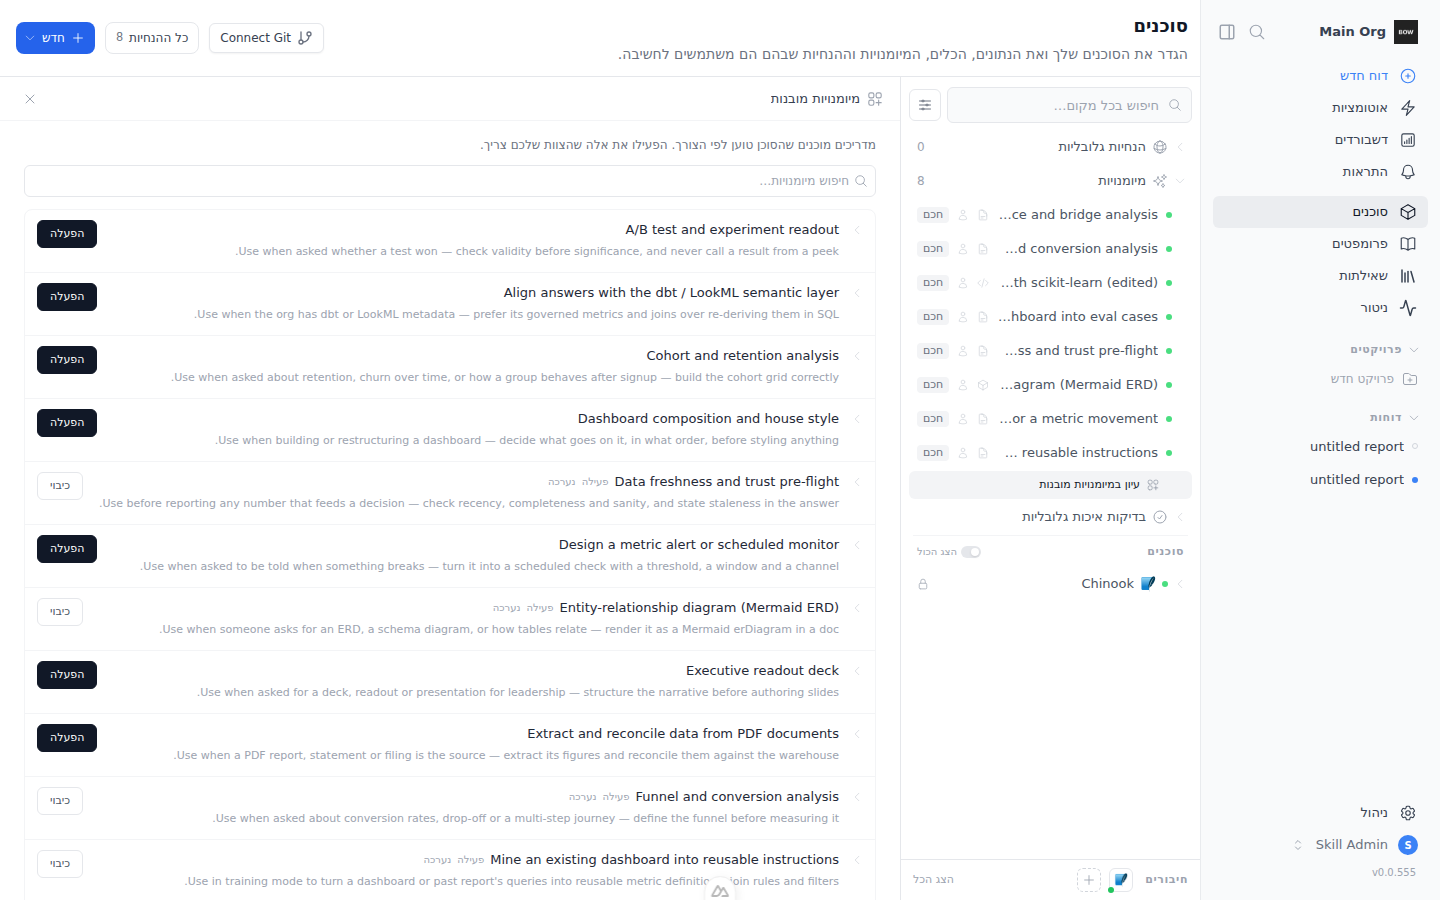
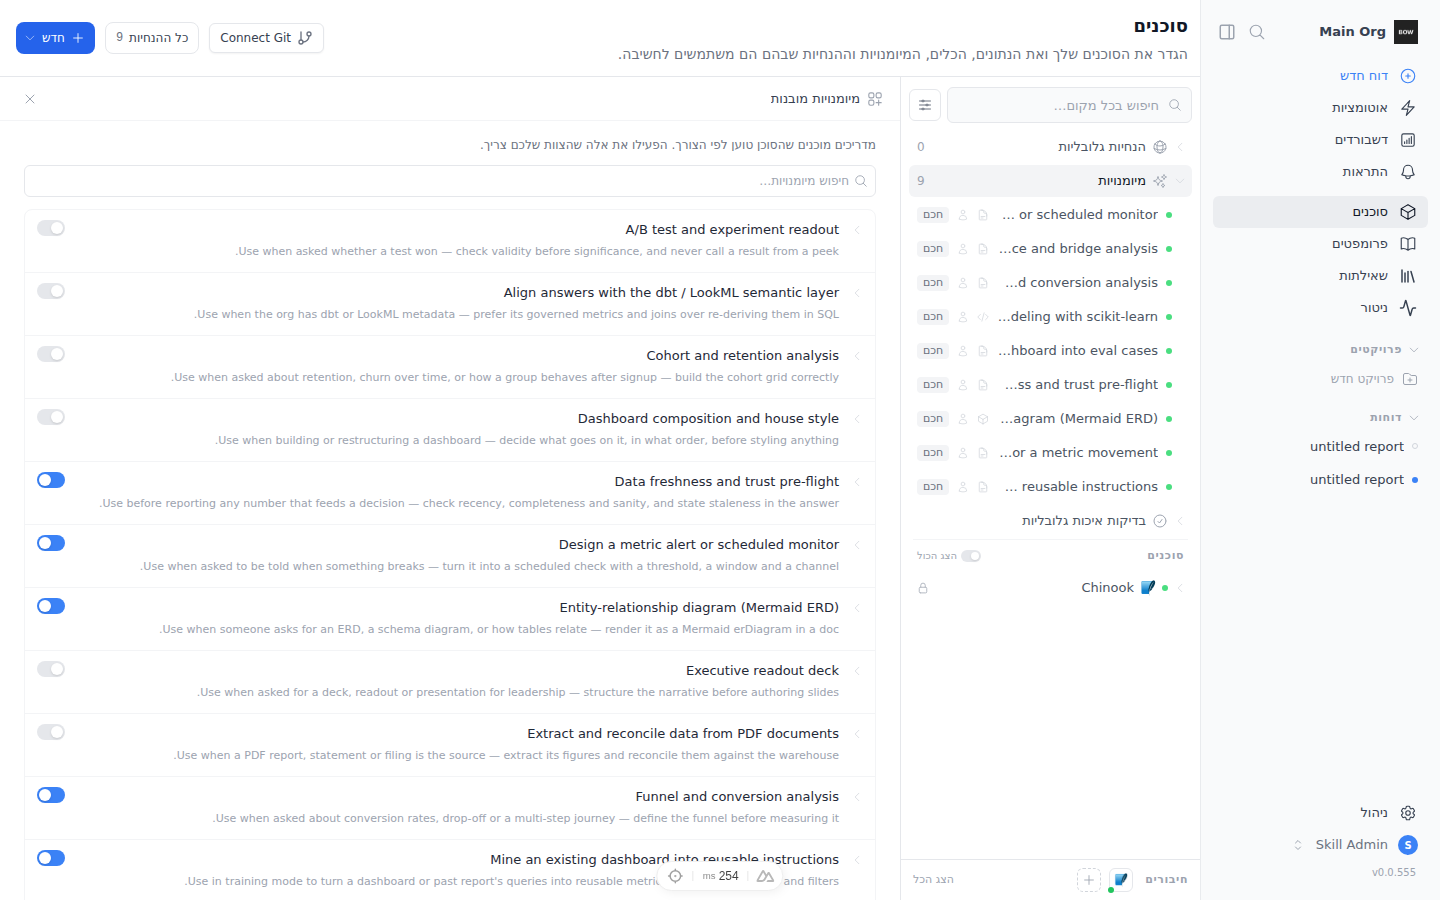
refactor(skills): one click from the Skills row, and a toggle per skill
Two things stood between an admin and enabling a skill: expanding the Skills
group to find a "Browse pre-built skills" sub-row, and reading an
Enable/Disable button to work out the current state.

Clicking the Skills row now opens the catalog directly — the same shape as
Tables and Tools (onPanelRowClick), where the row opens its panel and the
chevron alone expands the group. The sub-row is gone.

Each catalog row is a title, a description and a toggle. The toggle is bound to
the server's state rather than a local ref, so it moves when the install
actually lands and can never show enabled for a skill the agent does not have.
The "Enabled" text next to the title went with the button — the switch says it.

Also fixes a one-way door: an edited skill could only be put back to the shipped
text if a version bump happened to be pending, because the re-sync action was
gated on update_available. It now appears whenever the org's copy diverges —
labelled Update when a new version exists and Reset when it does not — so
"I edited this and want the original back" has an answer.

Verified on the live sandbox: one click on Skills opens 16 rows, the toggle
flips on and off with install/delete round-trips behind it, resetting seven
edited skills clears every Edited marker, members see all 16 with disabled
toggles and no reset action, and Hebrew RTL mirrors cleanly. 37 catalog tests
green (one new for the reset path); i18n locale sweep 30 passed.
[…]

diff --git a/frontend/components/instructions/SkillCatalogPanel.vue b/frontend/components/instructions/SkillCatalogPanel.vue
@@ -55,11 +55,6 @@
             <div class="flex items-center gap-1.5 flex-wrap">
               <span class="text-[13px] text-gray-800 dark:text-gray-200">{{ skill.title }}</span>
               <span
-                v-if="skill.installed"
-                data-testid="skill-enabled-badge"
-                class="text-[10px] text-gray-400 dark:text-gray-500"
-              >{{ $t('skillCatalog.enabled') }}</span>
-              <span
                 v-if="skill.update_available"
                 class="inline-flex items-center px-1.5 h-4 rounded bg-amber-100 dark:bg-amber-500/20 text-amber-700 dark:text-amber-300 text-[10px] font-medium"
               >{{ $t('skillCatalog.updateAvailable') }}</span>
@@ -82,27 +77,34 @@
           </div>
 
           <div class="shrink-0 flex items-center gap-1.5" @click.stop>
+            <!-- A new shipped version to take, or local edits to discard —
+                 without this second case an edited skill has no way back to
+                 the shipped text. -->
             <button
-              v-if="skill.installed && skill.update_available && canManage"
+              v-if="skill.installed && canManage && (skill.update_available || skill.is_customized)"
               type="button"
+              :data-testid="`skill-resync-${skill.key}`"
               :disabled="busyKey === skill.key"
-              class="h-7 px-2.5 rounded-md text-[11px] font-medium text-amber-700 dark:text-amber-400 hover:bg-amber-50 dark:hover:bg-amber-500/10 disabled:opacity-50"
+              class="h-7 px-2.5 rounded-md text-[11px] font-medium disabled:opacity-50"
+              :class="skill.update_available
+                ? 'text-amber-700 dark:text-amber-400 hover:bg-amber-50 dark:hover:bg-amber-500/10'
+                : 'text-gray-500 dark:text-gray-400 hover:bg-gray-100 dark:hover:bg-gray-800'"
               @click="update(skill)"
-            >{{ $t('skillCatalog.update') }}</button>
-            <button
-              type="button"
+            >{{ skill.update_available ? $t('skillCatalog.update') : $t('skillCatalog.reset') }}</button>
+            <Spinner v-if="busyKey === skill.key" class="w-3.5 h-3.5 text-gray-400 dark:text-gray-500" />
+            <!-- Bound to the server's state, not a local ref: the switch moves
+                 when the install actually lands, so it can never show enabled
+                 for a skill the agent does not have. -->
+            <UToggle
+              v-else
               :data-testid="`skill-toggle-${skill.key}`"
-              :disabled="!canManage || busyKey === skill.key"
-              class="h-7 px-3 rounded-md text-[11px] font-medium border disabled:opacity-50 disabled:cursor-not-allowed"
-              :class="skill.installed
-                ? 'border-gray-200 dark:border-gray-800 text-gray-600 dark:text-gray-300 hover:bg-gray-50 dark:hover:bg-gray-800/50'
-                : 'border-gray-900 dark:border-gray-100 bg-gray-900 dark:bg-gray-100 text-white dark:text-gray-900 hover:bg-gray-800 dark:hover:bg-white'"
+              :model-value="skill.installed"
+              :disabled="!canManage"
+              size="sm"
+              :aria-label="skill.installed ? $t('skillCatalog.disable') : $t('skillCatalog.enable')"
               :title="canManage ? '' : $t('skillCatalog.adminOnly')"
-              @click="toggle(skill)"
-            >
-              <Spinner v-if="busyKey === skill.key" class="w-3 h-3" />
-              <template v-else>{{ skill.installed ? $t('skillCatalog.disable') : $t('skillCatalog.enable') }}</template>
-            </button>
+              @update:model-value="toggle(skill)"
+            />
           </div>
         </div>
 
@@ -225,7 +227,7 @@ const toggle = async (skill: CatalogEntry) => {
 
 const update = async (skill: CatalogEntry) => {
   if (!canManage.value || busyKey.value) return
-  // Updating overwrites the org's copy, so a customized skill needs consent.
+  // Either way this discards the org's copy, so local edits need consent.
   if (skill.is_customized && !confirm(t('skillCatalog.confirmOverwrite', { name: skill.title }))) return
   busyKey.value = skill.key
   try {

diff --git a/frontend/components/KnowledgeExplorer.vue b/frontend/components/KnowledgeExplorer.vue
@@ -141,16 +141,14 @@
               </div>
             </template>
           </TreeGroup>
-          <TreeGroup :label="$t('agentsPage.skills')" icon="i-heroicons-sparkles" :count="skillCount" :open="isOpen('skills')" @toggle="expand('skills')">
+          <!-- Clicking the row opens the pre-built catalog (mirrors Tables /
+               Tools); the chevron alone expands the org's enabled skills. -->
+          <TreeGroup :label="$t('agentsPage.skills')" icon="i-heroicons-sparkles" :count="skillCount" :active="panelView?.kind === 'skill-catalog'" data-testid="skills-group" :open="isOpen('skills')" @toggle="onSkillsRowClick">
             <div v-if="groupLoading('skills')" class="flex items-center gap-2 h-8 text-[13px] text-gray-400 dark:text-gray-500" style="padding-inline-start:32px"><Spinner class="w-3.5 h-3.5" /><span>Loading…</span></div>
             <template v-else>
               <EmptyHint v-if="skillCount === 0" :text="$t('agentsPage.noSkills')" />
               <InstrLeaf v-for="ins in listFor('skills')" :key="ins.id" :ins="ins" />
             </template>
-            <button type="button" data-testid="browse-skill-catalog" class="group w-full flex items-center gap-1.5 h-7 rounded-md text-[11px] transition-colors" :class="panelView?.kind === 'skill-catalog' ? 'bg-gray-100 dark:bg-gray-800 text-gray-900 dark:text-white' : 'text-gray-500 dark:text-gray-400 hover:bg-gray-100 dark:hover:bg-gray-800/70'" style="padding-inline-start:32px;padding-inline-end:8px" @click.stop="openSkillCatalog">
-              <UIcon name="i-heroicons-squares-plus" class="w-3.5 h-3.5 text-gray-400 dark:text-gray-500 shrink-0" />
-              <span class="truncate">{{ $t('skillCatalog.browse') }}</span>
-            </button>
           </TreeGroup>
           <!-- Org-wide evals (apply to all agents). Admin-gated via manage_evals. -->
           <!-- Global Evals mirrors an agent's Evals group: chevron expands the
@@ -1974,6 +1972,13 @@ const openGlobalEvals = () => {
 const openSkillCatalog = () => {
   clearRightPane()
   panelView.value = { kind: 'skill-catalog', agentId: '' }
+}
+// Same shape as onPanelRowClick: the row opens the catalog and expands the
+// group; clicking it again while the catalog is open just collapses the group.
+const onSkillsRowClick = () => {
+  if (panelView.value?.kind === 'skill-catalog') { expand('skills'); return }
+  if (!isOpen('skills')) expand('skills')
+  openSkillCatalog()
 }
 // Enabling lands a normal kind='skill' instruction; disabling deletes one.
 // loadGroup merges rows by id and never removes, so a disabled skill would

diff --git a/backend/tests/e2e/test_skill_catalog.py b/backend/tests/e2e/test_skill_catalog.py
@@ -398,3 +398,38 @@ async def test_uninstall_clears_duplicate_rows(create_user, login_user, whoami, 
             )
         )).scalars().all()
     assert live == []
+
+
+@pytest.mark.e2e
+def test_update_resets_local_edits_without_a_version_bump(
+    create_user, login_user, whoami, test_client
+):
+    """Reset path: an edited skill can be put back to the shipped text even
+    when no new catalog version exists — otherwise local edits are one-way."""
+    token, org_id = _new_admin(create_user, login_user, whoami)
+    key = _a_chat_skill_key()
+    skill = get_prebuilt_skill(key)
+    installed = _install(test_client, token, org_id, key)
+
+    edited = test_client.put(
+        f"/api/instructions/{installed['instruction_id']}",
+        json={"text": "Our own take on this playbook."},
+        headers=_auth(token, org_id),
+    )
+    assert edited.status_code == 200, edited.json()
+
+    before = _catalog(test_client, token, org_id)[key]
+    assert before["is_customized"] is True
+    # No version bump — the only reason to re-sync is the local edit itself.
+    assert before["update_available"] is False
+
+    assert test_client.post(
+        f"/api/instructions/skill-catalog/{key}/update", headers=_auth(token, org_id)
+    ).status_code == 200
+
+    after = _catalog(test_client, token, org_id)[key]
+    assert after["is_customized"] is False
+    row = test_client.get(
+        f"/api/instructions/{installed['instruction_id']}", headers=_auth(token, org_id)
+    ).json()
+    assert row["text"].strip() == skill.body.strip()

diff --git a/docs/feedback-loops/prebuilt-skill-catalog.md b/docs/feedback-loops/prebuilt-skill-catalog.md
@@ -37,22 +37,23 @@ product documentation), `POST .../{key}/install`, `DELETE .../{key}`,
 `POST /instructions/global`, because an installed skill is a global row that
 reaches every request in the org).
 
-**UI** — inside the knowledge explorer, where skills already live. The Skills
-group gets a **Browse pre-built skills** row that opens the catalog in the
-explorer's own detail panel (the same slot as Tables / Tools / Evals — a new
-`panelView.kind === 'skill-catalog'`, agent-less like `global-evals`):
-`frontend/components/instructions/SkillCatalogPanel.vue`.
+**UI** — inside the knowledge explorer, where skills already live. Clicking the
+**Skills** row opens the catalog in the explorer's own detail panel (the same
+slot as Tables / Tools / Evals — a new `panelView.kind === 'skill-catalog'`,
+agent-less like `global-evals`), so the catalog is one click from the tree with
+nothing to expand first: `frontend/components/instructions/SkillCatalogPanel.vue`.
 
-Each catalog row expands in place to show the **shipped playbook read-only**,
-so it can be read before anyone enables it, and carries Enable / Disable /
-Update. An *enabled* skill is a normal instruction, so clicking it in the tree
-opens the existing instruction editor — versions, Details strip, Analyze tab
-and all — with nothing new built for it.
+A row is a title, a one-line description and a **toggle**. It expands in place
+to show the **shipped playbook read-only**, so it can be read before anyone
+enables it. An *enabled* skill is a normal instruction, so clicking it in the
+tree opens the existing instruction editor — versions, Details strip, Analyze
+tab and all — with nothing new built for it.
 
-Two UI shapes were tried and discarded on the way: a modal (wrong for reading
-16 playbooks) and a standalone `/skills` page with Enabled/Catalog tabs (a
-second home for something the explorer already owns, and a redundant top-level
-nav entry). The panel keeps one home for skills.
+Three UI shapes were tried and discarded on the way: a modal (wrong for reading
+16 playbooks), a standalone `/skills` page with Enabled/Catalog tabs (a second
+home for something the explorer already owns, plus a redundant top-level nav
+entry), and a sub-row inside the expanded Skills group (a second click to reach
+something the group row itself can open).
 
 ## Three fixes this loop found
 
@@ -81,6 +82,12 @@ nav entry). The panel keeps one home for skills.
    can train models…`) where the one-line description belongs — the same line
    the agent sees in `<available_skills>`. Both projections now carry it, along
    with `catalog_key`/`catalog_version`, which were also absent.
+
+An installed skill that had been edited could only be put back to the shipped
+text if a *version bump* happened to be pending: the re-sync action was gated on
+`update_available`, so local edits were effectively one-way. It is now offered
+whenever the copy diverges, labelled **Update** when a new version exists and
+**Reset** when it does not (`test_update_resets_local_edits_without_a_version_bump`).
 
 Skill bodies also opened with an `# H1` repeating their own title, which the
 detail pane rendered directly under the heading it duplicated. The frontmatter
